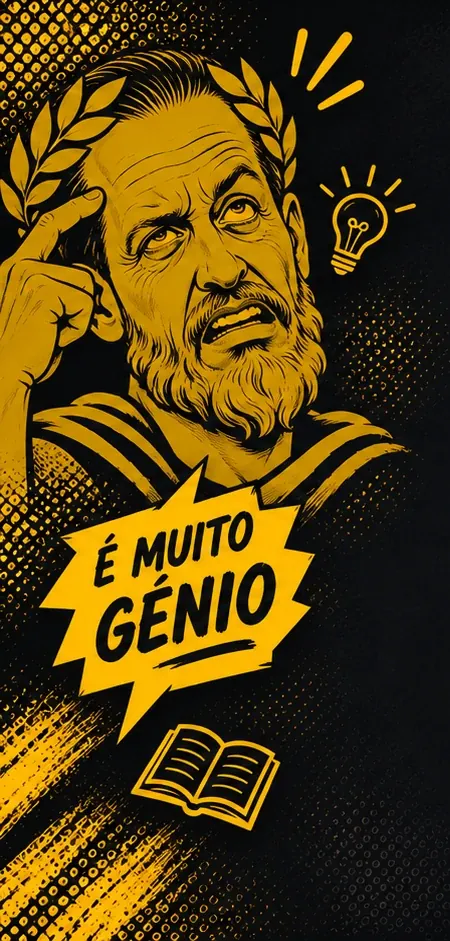
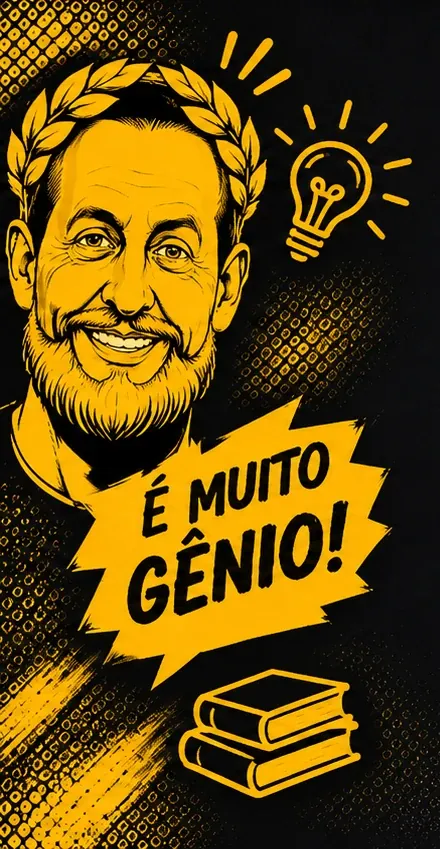
Papo Reto: nova arte de fundo de O Sábio da Resenha
- Troca as laterais do Sábio pela arte nova (sábio sorrindo com louros,
  lâmpada, cérebro, livros e capelo)
- A altura da arte agora se ajusta ao espaço livre ao lado do conteúdo
  (entre 70% e 100% da tela): em telas largas a lateral aparece inteira,
  em vez de ter o balão cortado; presa no topo e com degradê embaixo

Claude-Session: https://claude.ai/code/session_01W1pgBGMPMKdA9gTW2KLxm7

diff --git a/src/papo-reto/components/RankingBackdrop.tsx b/src/papo-reto/components/RankingBackdrop.tsx
@@ -17,10 +17,7 @@ interface Side {
 interface Backdrop {
   left: Side;
   right: Side;
-  /**
-   * Não ampliar além do tamanho original: a arte fica presa no topo e some em degradê embaixo.
-   * Para artes concentradas na parte de cima (ex.: Bala do Véio), que cortariam os balões se esticadas.
-   */
+  /** Não ampliar além do tamanho original (artes concentradas na parte de cima, ex.: Bala do Véio). */
   noUpscale?: boolean;
 }
 
@@ -35,23 +32,29 @@ const BACKDROPS: Partial<Record<TabSlug, Backdrop>> = {
     noUpscale: true,
   },
   sabio: {
-    left: { src: "/papo-reto/rankings/sabio-bg-left.webp", width: 450, height: 941 },
-    right: { src: "/papo-reto/rankings/sabio-bg-right.webp", width: 482, height: 941 },
+    left: { src: "/papo-reto/rankings/sabio-bg-left.webp", width: 440, height: 849 },
+    right: { src: "/papo-reto/rankings/sabio-bg-right.webp", width: 540, height: 849 },
   },
 };
 
-// Largura de cada lateral: só o espaço livre ao lado do conteúdo (64rem), para nunca ficar atrás do texto,
-// e no máximo a largura da arte na altura da tela. Em telas menores aparece só a parte de fora (os rostos).
-const artHeight = (side: Side, noUpscale?: boolean) => (noUpscale ? `min(100vh, ${side.height}px)` : "100vh");
-const sideWidth = (side: Side, noUpscale?: boolean) =>
-  `min(calc((100vw - 64rem) / 2 + 0.5rem), calc(${artHeight(side, noUpscale)} * ${side.width} / ${side.height}))`;
+// Espaço livre ao lado do conteúdo (64rem): a arte nunca passa por trás do texto.
+const GAP = "calc((100vw - 64rem) / 2 + 0.5rem)";
+
+/**
+ * Altura da arte: a que faz a lateral caber inteira no espaço livre, entre 70% e 100% da tela.
+ * Em telas largas a arte aparece inteira; nas menores, fica maior que o espaço e mostra só a parte de fora (os rostos).
+ * Com noUpscale, também não passa do tamanho original do arquivo.
+ */
+const artHeight = (side: Side, noUpscale?: boolean) =>
+  `clamp(70vh, calc(${GAP} * ${side.height} / ${side.width}), ${noUpscale ? `min(100vh, ${side.height}px)` : "100vh"})`;
 
 function SideArt({ side, align, noUpscale }: { side: Side; align: "left" | "right"; noUpscale?: boolean }) {
+  const height = artHeight(side, noUpscale);
   return (
     <div
       className={`absolute inset-y-0 ${align === "left" ? "left-0" : "right-0"}`}
       style={{
-        width: sideWidth(side, noUpscale),
+        width: `min(${GAP}, calc(${height} * ${side.width} / ${side.height}))`,
         // Some em direção ao conteúdo.
         maskImage: `linear-gradient(to ${align === "left" ? "right" : "left"}, #000 80%, transparent)`,
       }}
@@ -60,10 +63,10 @@ function SideArt({ side, align, noUpscale }: { side: Side; align: "left" | "righ
         className="size-full bg-no-repeat"
         style={{
           backgroundImage: `url(${side.src})`,
-          backgroundSize: `auto ${noUpscale ? `min(100%, ${side.height}px)` : "100%"}`,
-          backgroundPosition: `${align} ${noUpscale ? "top" : "center"}`,
-          // Sem ampliar, a arte termina antes do fim da tela: some em degradê embaixo.
-          maskImage: noUpscale ? `linear-gradient(to bottom, #000 calc(min(100%, ${side.height}px) * 0.8), transparent min(100%, ${side.height}px))` : undefined,
+          backgroundSize: `auto ${height}`,
+          backgroundPosition: `${align} top`,
+          // Presa no topo: quando não ocupa a altura toda, some em degradê embaixo.
+          maskImage: `linear-gradient(to bottom, #000 calc(${height} * 0.85), transparent ${height})`,
         }}
       />
     </div>
